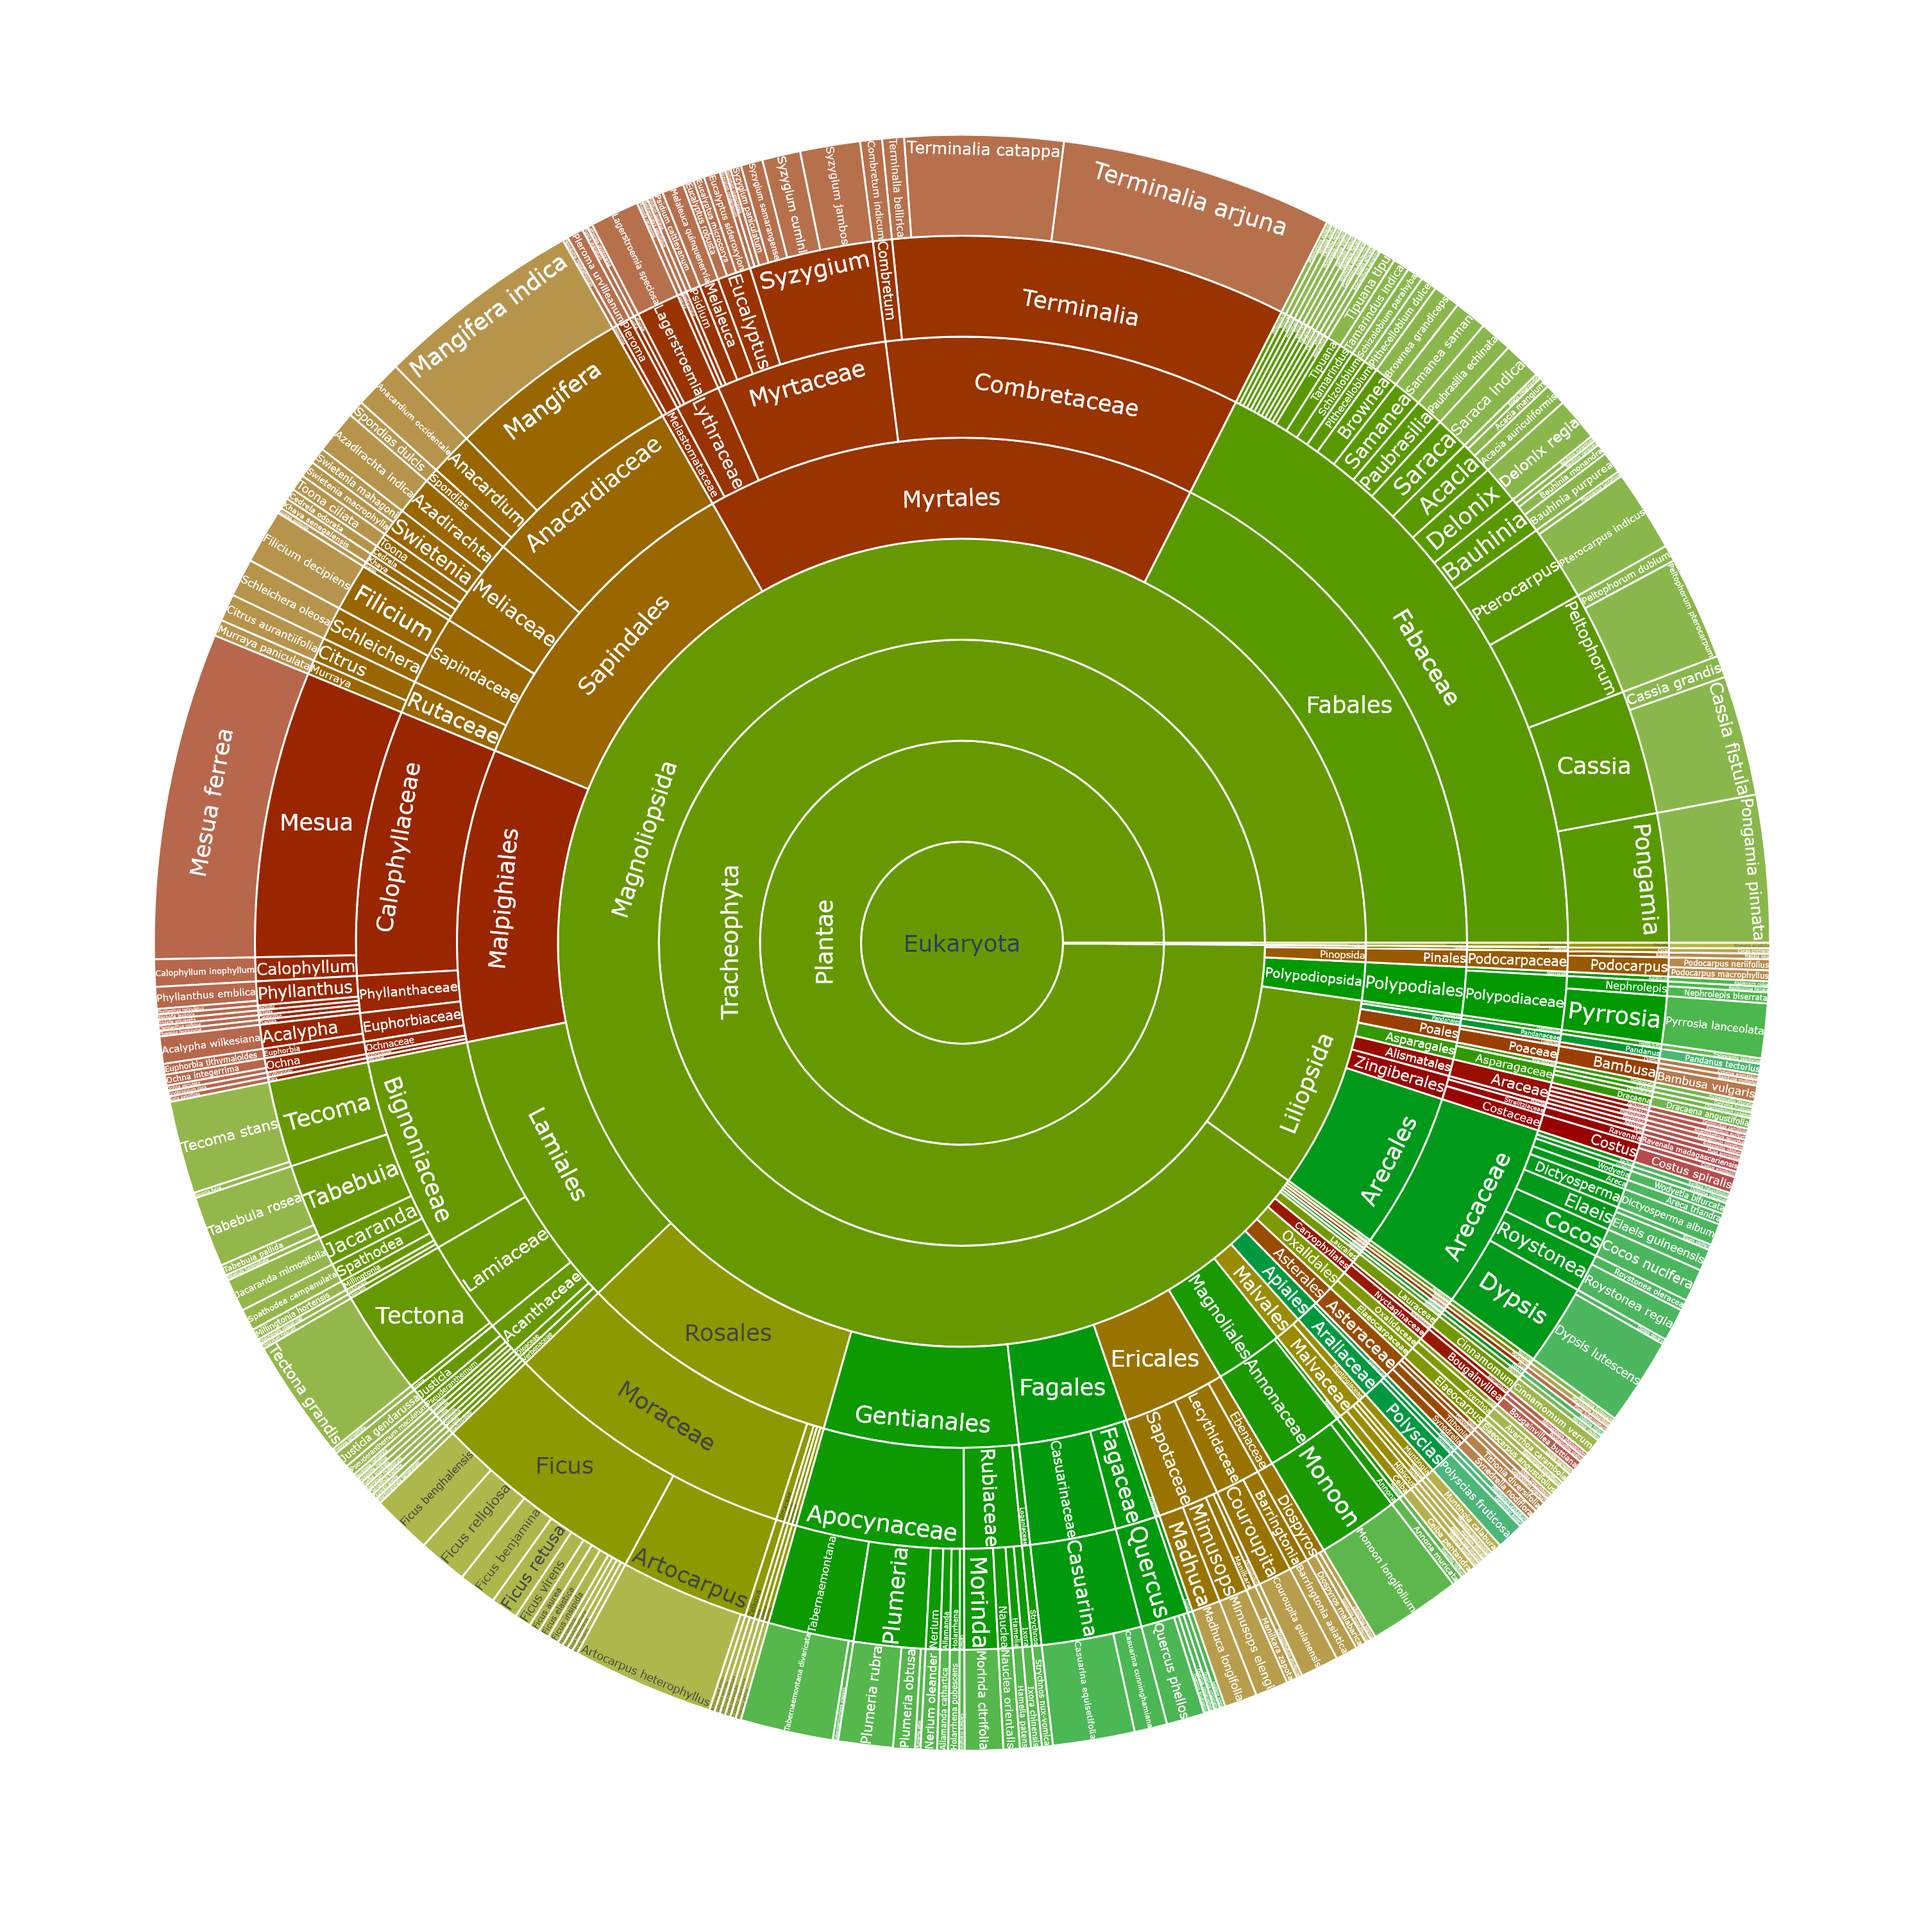
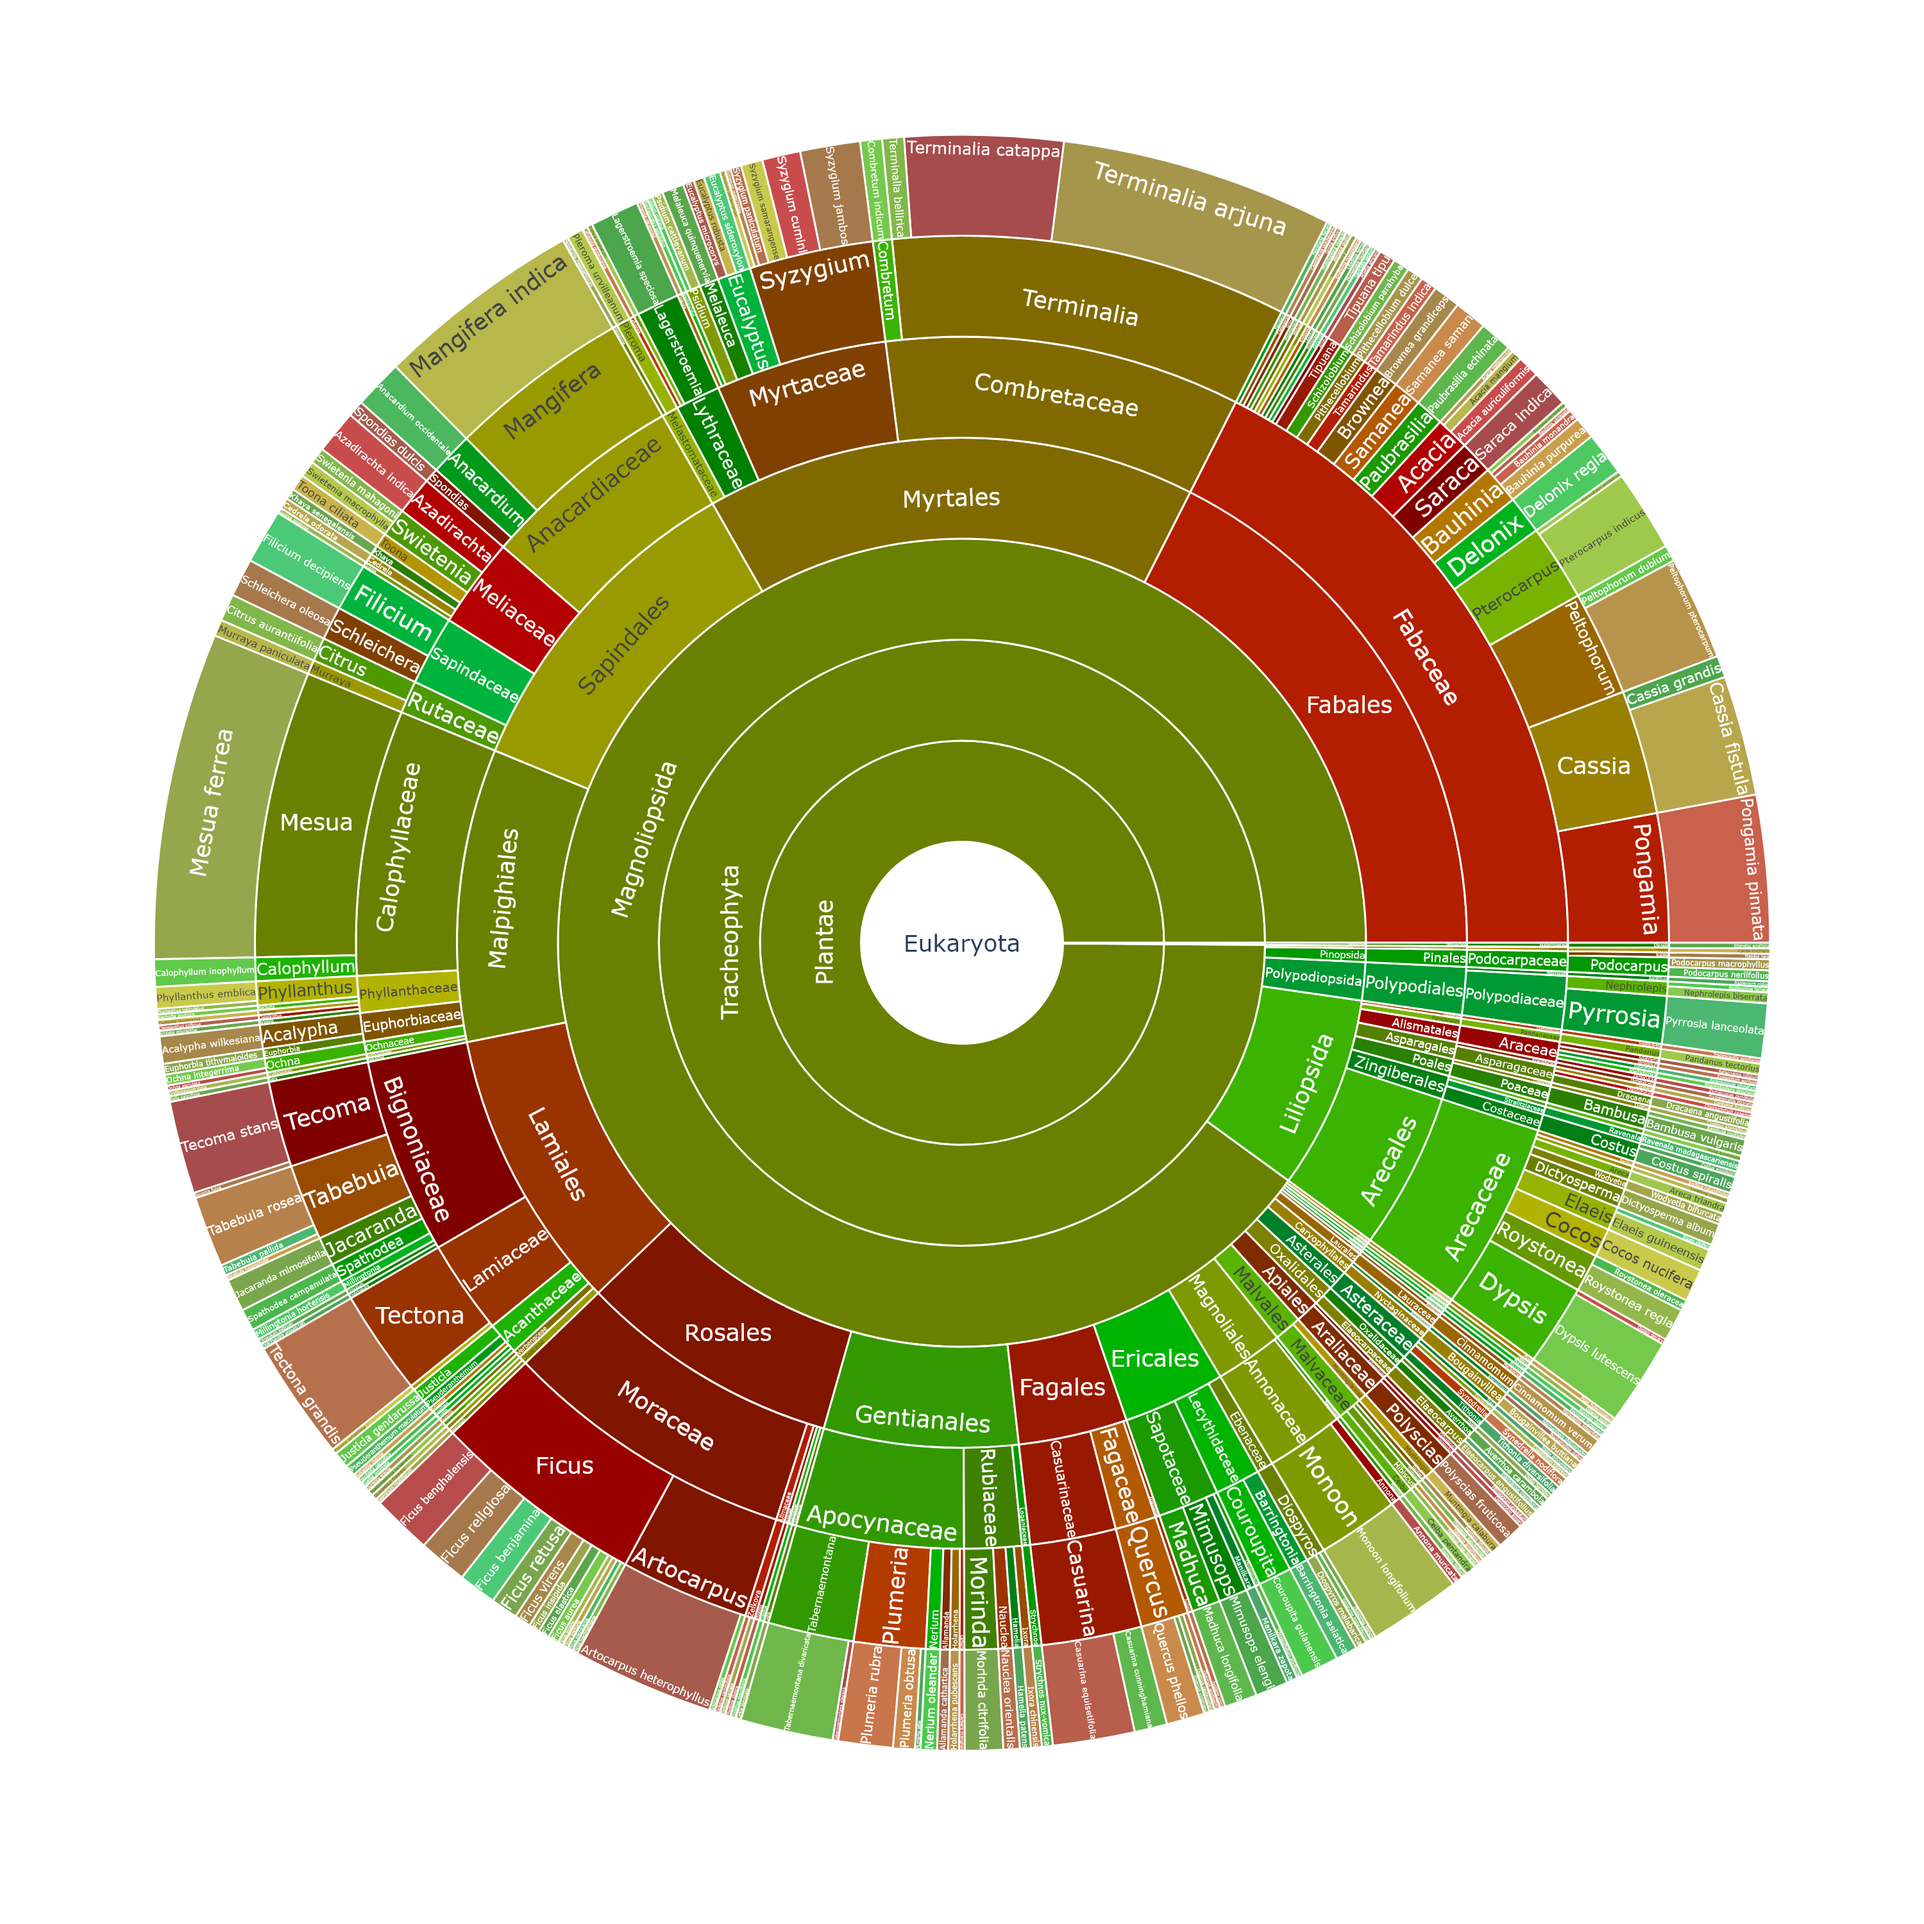
Sunburst coloring

diff --git a/src/lk_plants/analysis/readme_pages/ReadMeSunburst.py b/src/lk_plants/analysis/readme_pages/ReadMeSunburst.py
@@ -2,7 +2,6 @@ import os
 import random
 from functools import cached_property
 
-import pandas
 import plotly.express as px
 import plotly.io as pio
 from utils import Log
@@ -22,7 +21,7 @@ class ReadMeSunburst(MarkdownPage, InfoReadMe):
         return 'README.sunburst.md'
 
     @cached_property
-    def df(self):
+    def d_list(self):
         species_to_rank_idx = {}
         species_to_n = {}
         for plant_photo in self.plant_photo_list:
@@ -42,40 +41,83 @@ class ReadMeSunburst(MarkdownPage, InfoReadMe):
         d_list = []
         for species_name, n in sorted(
             species_to_n.items(),
-            key=lambda x: x[1],
+            key=lambda x: -x[1],
         ):
             rank_idx = species_to_rank_idx[species_name]
             d_list.append(rank_idx | dict(n=n) | dict(color="red"))
-        return pandas.DataFrame(d_list)
+        return d_list
 
     @staticmethod
     def get_color_sequence():
         sequence = []
 
-        for h in range(0, 150, 5):
-            color = f'hsl({h},100%,30%)'
-            sequence.append(color)
+        for s in [100]:
+            for l in [25, 30,35]:
+                for h in range(0, 150, 10):
+                    color = f'hsl({h},{s}%,{l}%)'
+                    sequence.append(color)
         random.shuffle(sequence)
         return sequence
 
     @cached_property
     def line_chart(self):
-        df = self.df
+        d_list = self.d_list
+
+        rank_type_list = [
+            'domain',
+            'kingdom',
+            'phylum',
+            'classis',
+            'order',
+            'family',
+            'genus',
+            'species',
+        ]
+
+
+        names = []
+        parents = []
+        values = []
+        colors = []
+
+
+        color_rank_type = "species"
+
+        for i, rank_type in enumerate(rank_type_list[1:], start=1):
+            parent_rank_type = rank_type_list[i - 1]
+
+            name_to_n = {}
+            name_to_parent = {}
+            name_to_color = {}
+            for d in d_list:
+                name = d[rank_type]
+                if name not in name_to_n:
+                    name_to_n[name] = 0
+                    name_to_parent[name] = d[parent_rank_type]
+                    name_to_color[name] = d[color_rank_type]
+                name_to_n[name] += d['n']
+
+            for name, n in sorted(name_to_n.items(), key=lambda x: -x[1]):
+                names.append(name)
+                parents.append(name_to_parent[name])
+                values.append(n)
+                colors.append(name_to_color[name])
+
+        data = dict(
+            names=names,
+            parents=parents,
+            values=values,
+            colors=colors,
+        )
+ 
 
         fig = px.sunburst(
-            df,
-            path=[
-                'domain',
-                'kingdom',
-                'phylum',
-                'classis',
-                'order',
-                'family',
-                'genus',
-                'species',
-            ],
-            values='n',
-            color="order",
+            data,
+            names="names",
+            parents="parents",
+            values="values",
+            color="colors",
+            branchvalues='total',
             color_discrete_sequence=ReadMeSunburst.get_color_sequence(),
         )
 

diff --git a/src/lk_plants/__init__.py b/src/lk_plants/__init__.py
@@ -1,17 +1,78 @@
 # lk_plants (auto generate by build_inits.py)
 
-from lk_plants.analysis import (InfoReadMe, ReadMe, ReadMeAbout, ReadMeApp,
-                                ReadMeDifficultIds, ReadMeFunnel,
-                                ReadMeFunnelByDay, ReadMeIdentification,
-                                ReadMeIdentificationCommon,
-                                ReadMeMostCommonSpecies, ReadMePlantNet,
-                                ReadMeStatisticsByTaxonomy, ReadMeSunburst,
-                                ReadMeVMDPark)
-from lk_plants.app import App
-from lk_plants.core import (GBIF, Classis, DataApp, Domain, Family, Genus,
-                            Kingdom, NameTranslator, Order, Phylum,
-                            PlantNetResult, PlantNetResultBase,
-                            PlantNetResultIdentify, PlantPhoto, PlantPhotoBase,
-                            PlantPhotoOriginalImage, Species, Taxon, TaxonList,
-                            TaxonSerialize, WikiPage)
-from lk_plants.twtr import AnnotatedImage, Twtr
+from lk_plants.analysis import (
+    InfoReadMe,
+    ReadMe,
+)
+
+from lk_plants.analysis import (
+    ReadMeAbout,
+    ReadMeApp,
+    ReadMeDifficultIds,
+    ReadMeFunnel,
+    ReadMeFunnelByDay,
+    ReadMeIdentification,
+    ReadMeIdentificationCommon,
+    ReadMeMostCommonSpecies,
+    ReadMePlantNet,
+    ReadMeStatisticsByTaxonomy,
+    ReadMeSunburst,
+    ReadMeVMDPark,
+)
+
+from lk_plants.app import (
+    App,
+)
+
+from lk_plants.core import (
+    DataApp,
+)
+
+from lk_plants.core import (
+    GBIF,
+)
+
+from lk_plants.core import (
+    NameTranslator,
+)
+
+from lk_plants.core import (
+    PlantNetResult,
+    PlantNetResultBase,
+    PlantNetResultIdentify,
+)
+
+from lk_plants.core import (
+    PlantPhoto,
+    PlantPhotoBase,
+    PlantPhotoOriginalImage,
+)
+
+from lk_plants.core import (
+    Family,
+    Genus,
+    Species,
+)
+
+from lk_plants.core import (
+    Classis,
+    Domain,
+    Kingdom,
+    Order,
+    Phylum,
+)
+
+from lk_plants.core import (
+    Taxon,
+    TaxonList,
+    TaxonSerialize,
+)
+
+from lk_plants.core import (
+    WikiPage,
+)
+
+from lk_plants.twtr import (
+    AnnotatedImage,
+    Twtr,
+)

diff --git a/src/lk_plants/analysis/readme_pages/__init__.py b/src/lk_plants/analysis/readme_pages/__init__.py
@@ -2,18 +2,13 @@
 
 from lk_plants.analysis.readme_pages.ReadMeAbout import ReadMeAbout
 from lk_plants.analysis.readme_pages.ReadMeApp import ReadMeApp
-from lk_plants.analysis.readme_pages.ReadMeDifficultIds import \
-    ReadMeDifficultIds
+from lk_plants.analysis.readme_pages.ReadMeDifficultIds import ReadMeDifficultIds
 from lk_plants.analysis.readme_pages.ReadMeFunnel import ReadMeFunnel
 from lk_plants.analysis.readme_pages.ReadMeFunnelByDay import ReadMeFunnelByDay
-from lk_plants.analysis.readme_pages.ReadMeIdentification import \
-    ReadMeIdentification
-from lk_plants.analysis.readme_pages.ReadMeIdentificationCommon import \
-    ReadMeIdentificationCommon
-from lk_plants.analysis.readme_pages.ReadMeMostCommonSpecies import \
-    ReadMeMostCommonSpecies
+from lk_plants.analysis.readme_pages.ReadMeIdentification import ReadMeIdentification
+from lk_plants.analysis.readme_pages.ReadMeIdentificationCommon import ReadMeIdentificationCommon
+from lk_plants.analysis.readme_pages.ReadMeMostCommonSpecies import ReadMeMostCommonSpecies
 from lk_plants.analysis.readme_pages.ReadMePlantNet import ReadMePlantNet
-from lk_plants.analysis.readme_pages.ReadMeStatisticsByTaxonomy import \
-    ReadMeStatisticsByTaxonomy
+from lk_plants.analysis.readme_pages.ReadMeStatisticsByTaxonomy import ReadMeStatisticsByTaxonomy
 from lk_plants.analysis.readme_pages.ReadMeSunburst import ReadMeSunburst
 from lk_plants.analysis.readme_pages.ReadMeVMDPark import ReadMeVMDPark

diff --git a/src/lk_plants/core/__init__.py b/src/lk_plants/core/__init__.py
@@ -1,13 +1,50 @@
 # lk_plants.core (auto generate by build_inits.py)
 
-from lk_plants.core.data_app import DataApp
-from lk_plants.core.gbif import GBIF
-from lk_plants.core.misc import NameTranslator
-from lk_plants.core.plant_net import (PlantNetResult, PlantNetResultBase,
-                                      PlantNetResultIdentify)
-from lk_plants.core.plant_photo import (PlantPhoto, PlantPhotoBase,
-                                        PlantPhotoOriginalImage)
-from lk_plants.core.taxonomy import (Classis, Domain, Family, Genus, Kingdom,
-                                     Order, Phylum, Species, Taxon, TaxonList,
-                                     TaxonSerialize)
-from lk_plants.core.wiki import WikiPage
+from lk_plants.core.data_app import (
+    DataApp,
+)
+
+from lk_plants.core.gbif import (
+    GBIF,
+)
+
+from lk_plants.core.misc import (
+    NameTranslator,
+)
+
+from lk_plants.core.plant_net import (
+    PlantNetResult,
+    PlantNetResultBase,
+    PlantNetResultIdentify,
+)
+
+from lk_plants.core.plant_photo import (
+    PlantPhoto,
+    PlantPhotoBase,
+    PlantPhotoOriginalImage,
+)
+
+from lk_plants.core.taxonomy import (
+    Family,
+    Genus,
+    Species,
+)
+
+from lk_plants.core.taxonomy import (
+    Classis,
+    Domain,
+    Kingdom,
+    Order,
+    Phylum,
+)
+
+from lk_plants.core.taxonomy import (
+    Taxon,
+    TaxonList,
+    TaxonSerialize,
+)
+
+from lk_plants.core.wiki import (
+    WikiPage,
+)
+

diff --git a/src/lk_plants/analysis/__init__.py b/src/lk_plants/analysis/__init__.py
@@ -2,12 +2,19 @@
 
 from lk_plants.analysis.InfoReadMe import InfoReadMe
 from lk_plants.analysis.ReadMe import ReadMe
-from lk_plants.analysis.readme_pages import (ReadMeAbout, ReadMeApp,
-                                             ReadMeDifficultIds, ReadMeFunnel,
-                                             ReadMeFunnelByDay,
-                                             ReadMeIdentification,
-                                             ReadMeIdentificationCommon,
-                                             ReadMeMostCommonSpecies,
-                                             ReadMePlantNet,
-                                             ReadMeStatisticsByTaxonomy,
-                                             ReadMeSunburst, ReadMeVMDPark)
+
+
+from lk_plants.analysis.readme_pages import (
+    ReadMeAbout,
+    ReadMeApp,
+    ReadMeDifficultIds,
+    ReadMeFunnel,
+    ReadMeFunnelByDay,
+    ReadMeIdentification,
+    ReadMeIdentificationCommon,
+    ReadMeMostCommonSpecies,
+    ReadMePlantNet,
+    ReadMeStatisticsByTaxonomy,
+    ReadMeSunburst,
+    ReadMeVMDPark,
+)

diff --git a/src/lk_plants/core/taxonomy/__init__.py b/src/lk_plants/core/taxonomy/__init__.py
@@ -2,7 +2,20 @@
 
 from lk_plants.core.taxonomy.Family import Family
 from lk_plants.core.taxonomy.Genus import Genus
-from lk_plants.core.taxonomy.higher import (Classis, Domain, Kingdom, Order,
-                                            Phylum)
 from lk_plants.core.taxonomy.Species import Species
-from lk_plants.core.taxonomy.taxon import Taxon, TaxonList, TaxonSerialize
+
+
+from lk_plants.core.taxonomy.higher import (
+    Classis,
+    Domain,
+    Kingdom,
+    Order,
+    Phylum,
+)
+
+from lk_plants.core.taxonomy.taxon import (
+    Taxon,
+    TaxonList,
+    TaxonSerialize,
+)
+

diff --git a/src/lk_plants/core/plant_net/__init__.py b/src/lk_plants/core/plant_net/__init__.py
@@ -2,5 +2,4 @@
 
 from lk_plants.core.plant_net.PlantNetResult import PlantNetResult
 from lk_plants.core.plant_net.PlantNetResultBase import PlantNetResultBase
-from lk_plants.core.plant_net.PlantNetResultIdentify import \
-    PlantNetResultIdentify
+from lk_plants.core.plant_net.PlantNetResultIdentify import PlantNetResultIdentify

diff --git a/src/lk_plants/core/plant_photo/__init__.py b/src/lk_plants/core/plant_photo/__init__.py
@@ -2,5 +2,4 @@
 
 from lk_plants.core.plant_photo.PlantPhoto import PlantPhoto
 from lk_plants.core.plant_photo.PlantPhotoBase import PlantPhotoBase
-from lk_plants.core.plant_photo.PlantPhotoOriginalImage import \
-    PlantPhotoOriginalImage
+from lk_plants.core.plant_photo.PlantPhotoOriginalImage import PlantPhotoOriginalImage
